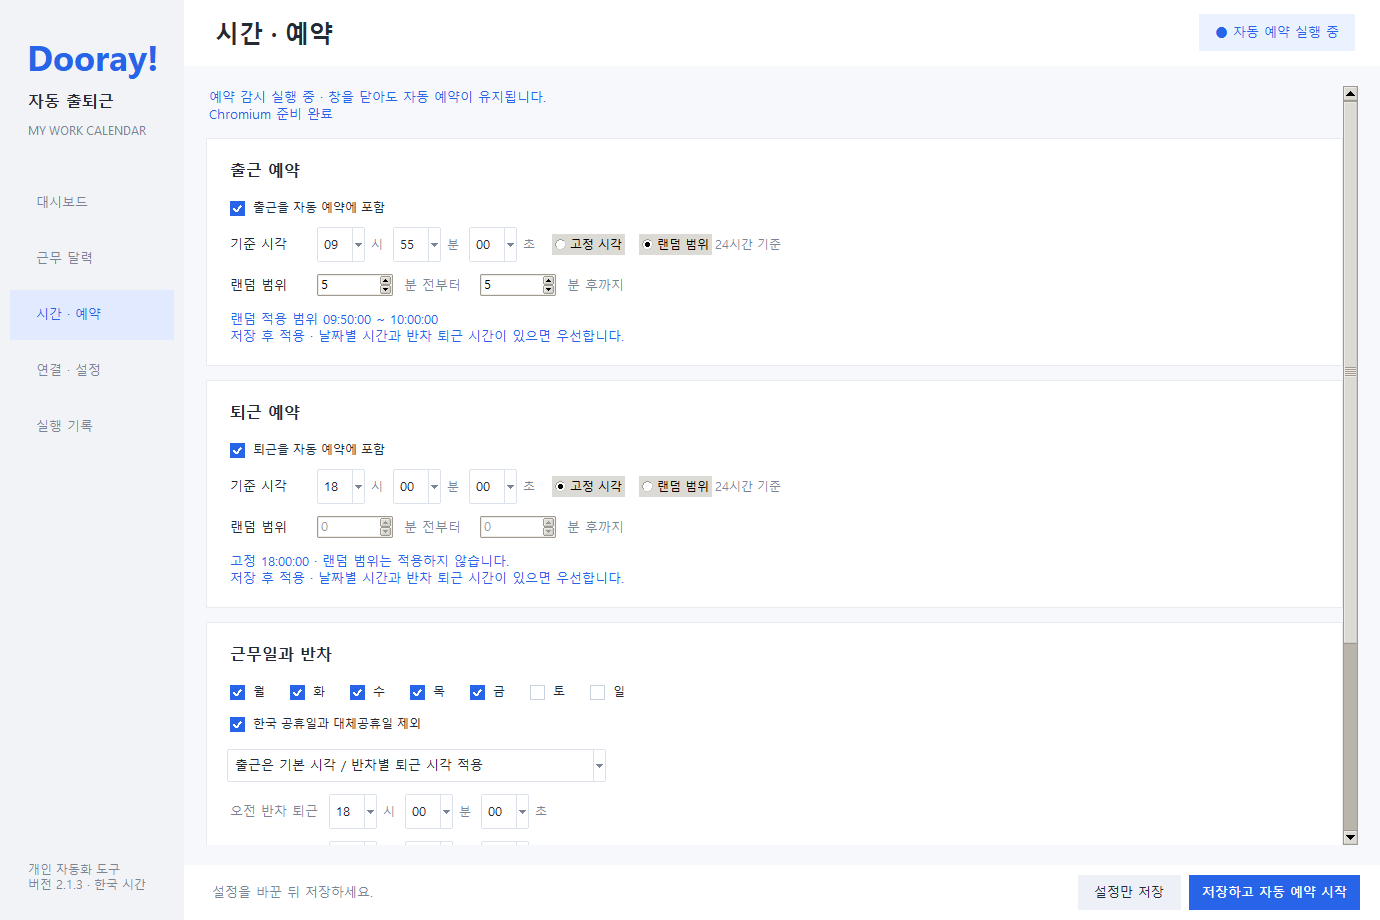
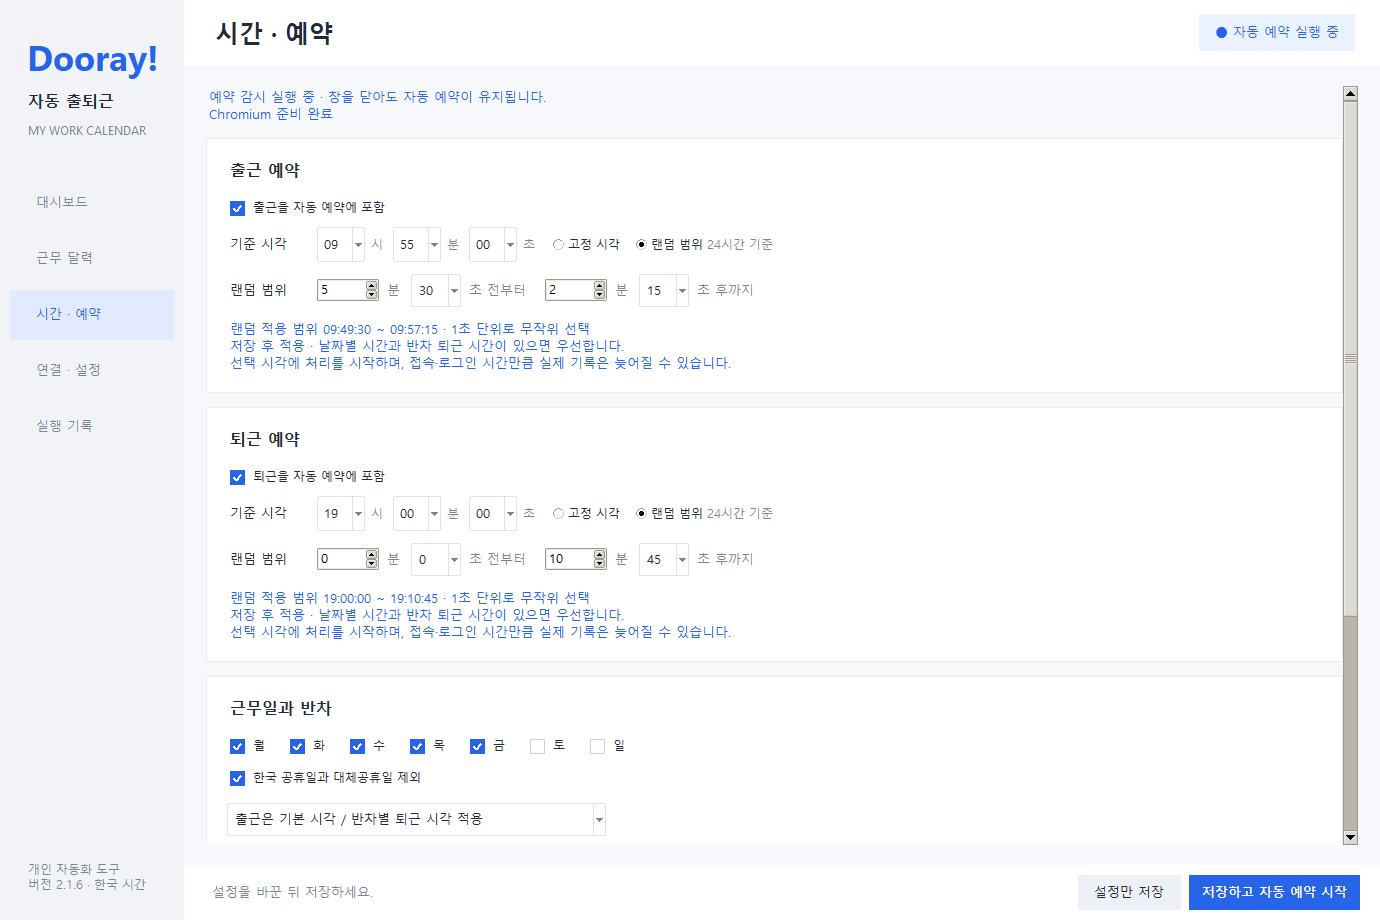
Allow second-level random windows for check-in and checkout

diff --git a/Duray/desktop_ui.py b/Duray/desktop_ui.py
@@ -354,15 +354,23 @@ class App:
             self.label(row, "랜덤 범위", width=12, anchor="w").pack(side="left")
             prefix = "" if action == "checkin" else "checkout_"
             self.random_inputs[action] = []
-            for key, label in (("random_before_minutes", "분 전부터"), ("random_after_minutes", "분 후까지")):
-                widget = ttk.Spinbox(row, from_=0, to=720, textvariable=self.vars[prefix + key], width=7)
+            range_keys = []
+            for direction, label in (("before", "초 전부터"), ("after", "초 후까지")):
+                minutes_key = prefix + "random_" + direction + "_minutes"
+                seconds_key = prefix + "random_" + direction + "_seconds"
+                range_keys.extend((minutes_key, seconds_key))
+                widget = ttk.Spinbox(row, from_=0, to=720, textvariable=self.vars[minutes_key], width=5)
                 widget.pack(side="left")
                 self.random_inputs[action].append(widget)
-                self.label(row, label, color=MUTED).pack(side="left", padx=(8, 16))
+                self.label(row, "분", color=MUTED).pack(side="left", padx=(5, 8))
+                widget = ttk.Combobox(row, values=list(range(60)), textvariable=self.vars[seconds_key], width=3, state="readonly")
+                widget.pack(side="left")
+                self.random_inputs[action].append(widget)
+                self.label(row, label, color=MUTED).pack(side="left", padx=(5, 16))
             preview = self.label(box, "", size=10, color=ACCENT, justify="left", wraplength=850)
             preview.pack(anchor="w", pady=(5, 0))
             self.schedule_previews[action] = preview
-            for key in (modekey, action + "_time", prefix + "random_before_minutes", prefix + "random_after_minutes"):
+            for key in (modekey, action + "_time", *range_keys):
                 self.vars[key].trace_add("write", lambda *_args, a=action: self.update_time_preview(a))
             self.update_time_preview(action)
         box = self.card(page, "근무일과 반차")
@@ -472,24 +480,28 @@ class App:
         mode = "time_mode" if action == "checkin" else "checkout_time_mode"
         random_mode = self.vars[mode].get() == MODE_LABELS["random"]
         for widget in self.random_inputs[action]:
-            widget.configure(state="normal" if random_mode else "disabled")
+            active_state = "readonly" if isinstance(widget, ttk.Combobox) else "normal"
+            widget.configure(state=active_state if random_mode else "disabled")
         try:
             cfg = copy.deepcopy(self.cfg)
             cfg[mode] = "random" if random_mode else "fixed"
             cfg[action + "_time"] = self.vars[action + "_time"].get()
             prefix = "" if action == "checkin" else "checkout_"
-            for key in (prefix + "random_before_minutes", prefix + "random_after_minutes"):
-                cfg[key] = int(self.vars[key].get())
-                if not 0 <= cfg[key] <= 720:
-                    raise ValueError()
+            for direction in ("before", "after"):
+                for unit, maximum in (("minutes", 720), ("seconds", 59)):
+                    key = prefix + "random_" + direction + "_" + unit
+                    cfg[key] = int(self.vars[key].get())
+                    if not 0 <= cfg[key] <= maximum:
+                        raise ValueError()
             # Show the normal-day range; date-specific times take priority.
             cfg["date_overrides"] = {}
             start, end = rules.time_bounds(cfg, self.today, action)
-            text = (f"랜덤 적용 범위 {rules.clock_text(start)} ~ {rules.clock_text(end)}" if random_mode
+            text = (f"랜덤 적용 범위 {rules.clock_text(start)} ~ {rules.clock_text(end)} · 1초 단위로 무작위 선택" if random_mode
                     else f"고정 {rules.clock_text(start)} · 랜덤 범위는 적용하지 않습니다.")
             text += "\n저장 후 적용 · 날짜별 시간과 반차 퇴근 시간이 있으면 우선합니다."
+            text += "\n선택 시각에 처리를 시작하며, 접속·로그인 시간만큼 실제 기록은 늦어질 수 있습니다."
         except (ValueError, TypeError):
-            text = "유효한 시각과 0~720분 범위를 입력하세요."
+            text = "유효한 시각과 0~720분, 0~59초 범위를 입력하세요."
         self.schedule_previews[action].configure(text=text)
 
     def update_app(self):
@@ -561,8 +573,12 @@ class App:
                 keyring.set_password(core.KEYRING_SERVICE, cfg["login_id"], password)
                 cfg["login_revision"] = uuid.uuid4().hex
             core.save_config(cfg)
-            core.log.info("설정 저장: 출근 %s / 모드 %s / 앞 %s분 뒤 %s분 / 퇴근 %s", cfg['checkin_time'],
-                          cfg['time_mode'], cfg['random_before_minutes'], cfg['random_after_minutes'], cfg['checkout_time'])
+            for action in rules.ACTIONS:
+                prefix = "" if action == "checkin" else "checkout_"
+                core.log.info("설정 저장: %s %s / 모드 %s / 앞 %s분 %s초 뒤 %s분 %s초", rules.LABELS[action],
+                              cfg[action + "_time"], cfg[prefix + "time_mode"],
+                              cfg[prefix + "random_before_minutes"], cfg[prefix + "random_before_seconds"],
+                              cfg[prefix + "random_after_minutes"], cfg[prefix + "random_after_seconds"])
             st = scheduler.status()
             if st.get("exists") and st.get("state") != "Disabled" and not st.get("watcher"):
                 scheduler.enable(cfg)

diff --git a/Duray/tests/test_attendance.py b/Duray/tests/test_attendance.py
@@ -56,6 +56,58 @@ class RulesTest(unittest.TestCase):
         self.cfg.update(checkout_time="23:59", checkout_time_mode="random", checkout_random_after_minutes=60)
         self.assertEqual(self.plan("checkout").end, 86399)
 
+    def test_seconds_ranges_for_both_actions(self):
+        for action in rules.ACTIONS:
+            prefix = "" if action == "checkin" else "checkout_"
+            with self.subTest(action=action):
+                self.cfg.update({action + "_time": "12:00:00", prefix + "time_mode": "random",
+                    prefix + "random_before_minutes": 5, prefix + "random_before_seconds": 30,
+                    prefix + "random_after_minutes": 2, prefix + "random_after_seconds": 15})
+                plan = self.plan(action)
+                self.assertEqual((plan.start, plan.end), (rules.seconds("11:54:30"), rules.seconds("12:02:15")))
+                self.assertLessEqual(plan.start, plan.target)
+                self.assertLessEqual(plan.target, plan.end)
+                self.assertEqual(plan.target, self.plan(action).target)
+                self.cfg[prefix + "time_mode"] = "fixed"
+                self.assertEqual(self.plan(action).target, rules.seconds("12:00:00"))
+
+    def test_subminute_random_range_is_not_rounded_to_minutes(self):
+        for action in rules.ACTIONS:
+            prefix = "" if action == "checkin" else "checkout_"
+            self.cfg.update({action + "_time": "12:00:30", prefix + "time_mode": "random",
+                prefix + "random_before_minutes": 0, prefix + "random_before_seconds": 20,
+                prefix + "random_after_minutes": 0, prefix + "random_after_seconds": 20})
+            targets = {self.plan(action, self.day + dt.timedelta(days=i)).target for i in range(120)}
+            self.assertTrue(all(rules.seconds("12:00:10") <= t <= rules.seconds("12:00:50") for t in targets))
+            self.assertGreater(len(targets), 20)
+
+    def test_old_settings_keep_same_selected_seconds_after_upgrade(self):
+        legacy = {k: v for k, v in self.cfg.items() if not ("random_" in k and k.endswith("_seconds"))}
+        legacy.update(time_mode="random", checkout_time_mode="random", checkout_random_after_minutes=10)
+        upgraded = rules.normalize_config(legacy)
+        for action in rules.ACTIONS:
+            for i in range(30):
+                day = self.day + dt.timedelta(days=i)
+                self.assertEqual(rules.plan_action(legacy, day, action), rules.plan_action(upgraded, day, action))
+        self.assertEqual(upgraded["random_before_seconds"], 0)
+        self.assertEqual(upgraded["checkout_random_after_seconds"], 0)
+
+    def test_seconds_validation_clipping_and_date_override(self):
+        for prefix in ("", "checkout_"):
+            for direction in ("before", "after"):
+                key = prefix + "random_" + direction + "_seconds"
+                for invalid in (-1, 60, "30", True, 1.5):
+                    with self.subTest(key=key, value=invalid), self.assertRaises(ValueError):
+                        rules.validate_config({**self.cfg, key: invalid})
+        self.cfg.update(checkin_time="00:00:15", time_mode="random", random_before_minutes=0,
+                        random_before_seconds=30, checkout_time="23:59:45", checkout_time_mode="random",
+                        checkout_random_after_seconds=30)
+        self.assertEqual(self.plan().start, 0)
+        self.assertEqual(self.plan("checkout").end, 86399)
+        self.cfg["date_overrides"][self.day.isoformat()] = {"checkout_time": "15:30:17"}
+        plan = self.plan("checkout")
+        self.assertEqual((plan.start, plan.end, plan.target), (rules.seconds("15:30:17"),) * 3)
+
     def test_saturday_manual_on(self):
         day = dt.date(2026, 10, 24)
         self.assertFalse(self.plan(day=day).enabled)
@@ -228,6 +280,20 @@ class RuntimeTest(unittest.TestCase):
         self.assertTrue(runtime.due(self.cfg, self.now, "checkin", {})[0])
         self.assertFalse(runtime.due(self.cfg, self.now - dt.timedelta(minutes=1), "checkin", {})[0])
         self.assertFalse(runtime.due(self.cfg, self.now + dt.timedelta(minutes=16), "checkin", {})[0])
+
+    def test_tick_starts_at_selected_second_for_both_actions(self):
+        self.cfg.update(checkout_enabled=True)
+        for action in rules.ACTIONS:
+            prefix = "" if action == "checkin" else "checkout_"
+            self.cfg.update({prefix + "time_mode": "random", prefix + "random_before_minutes": 0,
+                            prefix + "random_after_minutes": 0, prefix + "random_before_seconds": 12,
+                            prefix + "random_after_seconds": 17})
+            plan = rules.plan_action(self.cfg, self.now.date(), action)
+            target = self.now.replace(hour=0, minute=0, second=0) + dt.timedelta(seconds=plan.target)
+            with patch.object(runtime, "do_run", return_value=0) as run:
+                self.assertNotIn(action, runtime.tick(self.cfg, now=target - dt.timedelta(seconds=1)))
+                self.assertIn(action, runtime.tick(self.cfg, now=target))
+                self.assertEqual(run.call_args.args[1].action, action)
 
     def test_state_separate_for_checkout(self):
         self.cfg["checkout_enabled"] = True

diff --git a/Duray/attendance_rules.py b/Duray/attendance_rules.py
@@ -20,7 +20,9 @@ NEW_DEFAULTS = {
     "checkin_enabled": True, "checkout_enabled": False,
     "checkout_time": "18:00", "checkout_time_mode": "fixed",
     "random_before_minutes": 10, "random_after_minutes": 10,
+    "random_before_seconds": 0, "random_after_seconds": 0,
     "checkout_random_before_minutes": 0, "checkout_random_after_minutes": 0,
+    "checkout_random_before_seconds": 0, "checkout_random_after_seconds": 0,
     "workdays": [0, 1, 2, 3, 4], "date_overrides": {},
     "half_day_policy": "checkout_time", "am_half_checkout_time": "18:00",
     "pm_half_checkout_time": "14:00", "late_grace_minutes": 15,
@@ -87,6 +89,8 @@ def validate_config(cfg: dict, *, require_account: bool = False) -> None:
             raise ValueError("시간 모드는 fixed 또는 random이어야 합니다.")
     for key, low, high in (("random_before_minutes", 0, 720), ("random_after_minutes", 0, 720),
                           ("checkout_random_before_minutes", 0, 720), ("checkout_random_after_minutes", 0, 720),
+                          ("random_before_seconds", 0, 59), ("random_after_seconds", 0, 59),
+                          ("checkout_random_before_seconds", 0, 59), ("checkout_random_after_seconds", 0, 59),
                           ("late_grace_minutes", 0, 180), ("sync_interval_minutes", 5, 1440),
                           ("retry_count", 1, 10), ("retry_delay_seconds", 0, 600), ("timeout_ms", 1000, 120000)):
         if type(cfg.get(key)) is not int or not low <= cfg[key] <= high:
@@ -168,7 +172,9 @@ def time_bounds(cfg: dict, day: dt.date, action: str, kind: str = "work") -> tup
     prefix = "" if action == "checkin" else "checkout_"
     if special or mode == "fixed":
         return base, base
-    return max(0, base - cfg[prefix + "random_before_minutes"] * 60), min(86399, base + cfg[prefix + "random_after_minutes"] * 60)
+    before = cfg[prefix + "random_before_minutes"] * 60 + cfg.get(prefix + "random_before_seconds", 0)
+    after = cfg[prefix + "random_after_minutes"] * 60 + cfg.get(prefix + "random_after_seconds", 0)
+    return max(0, base - before), min(86399, base + after)
 
 
 @dataclass(frozen=True)
@@ -206,7 +212,8 @@ def plan_action(cfg: dict, day: dt.date, action: str, remote: dict | None = None
         if policy == "skip_checkout" and action == "checkout":
             enabled = False
     start, end = time_bounds(cfg, day, action, kind)
-    # Stable per user/date/action: restarting the worker never redraws today's time.
+    # Uniform over every second, inclusive. Stable per user/date/action: restarting
+    # the worker never redraws today's time. Zero seconds preserves legacy plans.
     seed = hashlib.sha256(f"{cfg.get('tenant_url')}|{cfg.get('login_id')}|{day}|{action}|{start}|{end}".encode()).digest()
     target = random.Random(seed).randint(start, end)
     return Plan(enabled, reason, start, end, target)

diff --git a/Duray/tests/test_gui.py b/Duray/tests/test_gui.py
@@ -167,7 +167,35 @@ class DesktopTest(unittest.TestCase):
         self.wait()
         self.assertEqual(core.load_config()['time_mode'], 'random')
         self.assertIn('09:50:00 ~ 10:00:00', self.app.schedule_previews['checkin'].cget('text'))
-        self.assertTrue(all(str(w.cget('state')) == 'normal' for w in self.app.random_inputs['checkin']))
+        self.assertTrue(all(str(w.cget('state')) in ('normal', 'readonly') for w in self.app.random_inputs['checkin']))
+
+    def test_seconds_range_preview_dropdown_and_saved_settings(self):
+        for action in rules.ACTIONS:
+            prefix = "" if action == "checkin" else "checkout_"
+            self.app.vars[action + '_time'].set('09:55' if action == 'checkin' else '19:00')
+            self.app.vars[prefix + 'time_mode'].set(desktop_ui.MODE_LABELS['random'])
+            for suffix, value in (('before_minutes', 5), ('before_seconds', 30),
+                                  ('after_minutes', 2), ('after_seconds', 15)):
+                self.app.vars[prefix + 'random_' + suffix].set(str(value))
+            preview = self.app.schedule_previews[action].cget('text')
+            self.assertIn('09:49:30 ~ 09:57:15' if action == 'checkin' else '18:54:30 ~ 19:02:15', preview)
+            self.assertIn('1초 단위', preview)
+            seconds_dropdown = self.app.random_inputs[action][1]
+            self.assertEqual(str(seconds_dropdown.cget('state')), 'readonly')
+            self.assertEqual(tuple(map(int, seconds_dropdown.cget('values'))), tuple(range(60)))
+        self.app.save()
+        self.wait()
+        saved = core.load_config()
+        for prefix in ('', 'checkout_'):
+            self.assertEqual(saved[prefix + 'random_before_seconds'], 30)
+            self.assertEqual(saved[prefix + 'random_after_seconds'], 15)
+        for action in rules.ACTIONS:
+            prefix = "" if action == "checkin" else "checkout_"
+            self.app.vars[prefix + 'random_after_seconds'].set('60')
+            self.assertIn('0~59초', self.app.schedule_previews[action].cget('text'))
+            with self.assertRaises(ValueError):
+                self.app.collect()
+            self.app.vars[prefix + 'random_after_seconds'].set('15')
 
     def test_save_and_start_registers_task_with_current_edits(self):
         self.app.vars['checkin_time'].set('09:55')

diff --git a/Duray/tests/test_diagnostics.py b/Duray/tests/test_diagnostics.py
@@ -36,6 +36,7 @@ class DiagnosticsTest(unittest.TestCase):
     def test_collects_evidence_without_credentials_sessions_or_notes(self):
         cfg = {'login_id': 'private.login', 'tenant_url': 'https://private-company.dooray.com',
                'password': 'fake-password-DO-NOT-SHARE', 'checkin_time': '09:55', 'checkin_enabled': True, 'workdays': [0,1,2,3,4],
+               'random_before_seconds': 30, 'checkout_random_after_seconds': 15,
                'date_overrides': {'2026-10-21': {'kind': 'work', 'checkin_time': '09:30', 'note': 'PRIVATE-NOTE'}}}
         config_path = self.data / 'config.json'
         config_path.write_text(json.dumps(cfg), encoding='utf-8')
@@ -61,6 +62,8 @@ class DiagnosticsTest(unittest.TestCase):
             self.assertNotIn(secret, everything)
         settings = json.loads(files['schedule-settings.json'])
         self.assertEqual(settings['checkin_time'], '09:55')
+        self.assertEqual(settings['random_before_seconds'], 30)
+        self.assertEqual(settings['checkout_random_after_seconds'], 15)
         self.assertEqual(settings['workdays'], [0,1,2,3,4])
         self.assertIs(settings['checkin_enabled'], True)
         self.assertIs(json.loads(files['environment.json'])['dataFound'], True)

diff --git a/Duray/app_version.py b/Duray/app_version.py
@@ -1,1 +1,1 @@
-VERSION = "2.1.5"
+VERSION = "2.1.6"

diff --git a/README.md b/README.md
@@ -1,8 +1,8 @@
 # 두레이 자동 출퇴근
 
-Windows에서 Dooray 출퇴근 예약, 근무 달력, 개인 근태를 관리하는 데스크톱 프로그램입니다. 현재 버전은 **2.1.5**입니다.
+Windows에서 Dooray 출퇴근 예약, 근무 달력, 개인 근태를 관리하는 데스크톱 프로그램입니다. 현재 버전은 **2.1.6**입니다.
 
-[Windows 설치 파일 다운로드](https://github.com/kimasill/dooray-auto-checkin/releases/download/v2.1.5/DoorayAutoCheckin-v2.1.5-windows.zip) · [설치 방법](#설치와-업데이트) · [연결 문제 해결](#연결이-안-될-때)
+[Windows 설치 파일 다운로드](https://github.com/kimasill/dooray-auto-checkin/releases/download/v2.1.6/DoorayAutoCheckin-v2.1.6-windows.zip) · [설치 방법](#설치와-업데이트) · [연결 문제 해결](#연결이-안-될-때)
 
 ## 화면 미리보기
 
@@ -16,7 +16,7 @@ Windows에서 Dooray 출퇴근 예약, 근무 달력, 개인 근태를 관리하
 
 ### 시간 · 예약
 
-시·분·초 드롭다운으로 시간을 선택하고, 랜덤 범위와 오전·오후 반차별 퇴근 시각을 지정합니다.
+시·분·초 드롭다운으로 시간을 선택하고, 랜덤 범위를 분·초로 정하고 오전·오후 반차별 퇴근 시각을 지정합니다.
 
 ![시간 및 예약: 시간 드롭다운, 랜덤 범위, 반차별 퇴근 시각 설정](docs/images/schedule.png)
 
@@ -24,9 +24,9 @@ Windows에서 Dooray 출퇴근 예약, 근무 달력, 개인 근태를 관리하
 
 **2.1.3부터 앱 안에서 업데이트할 수 있습니다.** 연결 · 설정 → **업데이트 확인** → **다운로드 및 설치**를 누르세요. 공식 GitHub 배포본의 SHA-256과 파일 구성을 검사한 뒤 설치하고 앱을 다시 엽니다. 기존 계정·비밀번호·시간·달력·예약 ON/OFF는 유지하며, 실패 시 기존 버전과 예약을 복원합니다. 이전 버전은 아래 ZIP으로 한 번 업데이트해주세요.
 
-**시간 설정만 저장하면 자동 예약은 시작되지 않습니다.** 하단의 **저장하고 자동 예약 시작**을 누르고 상단에 **자동 예약 실행 중**이 표시되는지 확인하세요. Windows 작업 등록과 실제 감시 프로세스 실행을 모두 확인합니다. 고정 시각에서는 랜덤 입력을 잠그며, 랜덤 범위를 선택하면 적용되는 시간 범위를 보여줍니다. 예: 09:55, 앞뒤 5분 → **09:50~10:00** 중 하루 한 시각을 선택하며 대시보드에 오늘의 선택 시각을 표시합니다.
+**시간 설정만 저장하면 자동 예약은 시작되지 않습니다.** 하단의 **저장하고 자동 예약 시작**을 누르고 상단에 **자동 예약 실행 중**이 표시되는지 확인하세요. Windows 작업 등록과 실제 감시 프로세스 실행을 모두 확인합니다. 고정 시각에서는 랜덤 입력을 잠그며, 랜덤 범위를 선택하면 적용되는 시간 범위를 보여줍니다. 예: 09:55, 앞뒤 5분 → **09:50:00~10:00:00**에서 1초 단위로 하루 한 시각을 선택하며 대시보드에 오늘의 선택 시각을 초까지 표시합니다. 2.1.6부터 범위도 **5분 30초 전 ~ 2분 15초 후**처럼 설정할 수 있습니다. 이 경우 09:55 기준 범위는 **09:49:30~09:57:15**입니다. 선택 시각에 처리를 시작하므로 접속·로그인·네트워크에 따라 실제 두레이 기록은 늦어질 수 있습니다.
 
-1. [최신 릴리스](https://github.com/kimasill/dooray-auto-checkin/releases/latest)에서 `DoorayAutoCheckin-v2.1.5-windows.zip`을 받습니다.
+1. [최신 릴리스](https://github.com/kimasill/dooray-auto-checkin/releases/latest)에서 `DoorayAutoCheckin-v2.1.6-windows.zip`을 받습니다.
 2. 압축을 풀고 `설치.bat`을 실행합니다.
 3. 프로그램의 **연결 · 설정**에서 회사 두레이 주소, 로그인 ID와 비밀번호를 입력하고 **저장하고 연결 확인**을 누릅니다.
 4. **시간 · 예약**에서 출근·퇴근 시각을 설정하고, 대시보드에서 **자동 예약 켜기**를 누릅니다.
@@ -62,7 +62,7 @@ Windows에서 Dooray 출퇴근 예약, 근무 달력, 개인 근태를 관리하
 - **근무 달력:** 월간 보기, 공휴일·대체휴일, 날짜별 출퇴근 ON/OFF 및 시간 설정
 - **본인 근태 표시:** 이번 달 연차·휴가, 오전 반차, 오후 반차를 색상별로 표시
 - **쉬운 시간 선택:** 출근·퇴근·반차·날짜별 시간을 시·분·초 드롭다운으로 선택
-- **출퇴근 예약:** 고정 시각 또는 기준 시각 이전/이후 각각 0~720분의 랜덤 범위
+- **출퇴근 예약:** 고정 시각 또는 기준 시각 이전/이후 각각 0~720분 + 0~59초의 랜덤 범위, 범위 안에서 1초 단위로 선택
 - **반차별 퇴근:** 출근 시각은 유지하고 오전·오후 반차의 퇴근 시각을 별도 지정
 - **설정 보존:** 이전 버전 설정 호환, 중복 처리 방지, 날짜별 수동 설정 우선 적용
 
@@ -82,7 +82,7 @@ Windows에서 Dooray 출퇴근 예약, 근무 달력, 개인 근태를 관리하
 
 ## 다른 PC에서 예약이 실행되지 않았을 때
 
-실패한 **그 PC에서, 앱을 사용한 Windows 계정으로** [진단 도구 ZIP](https://github.com/kimasill/dooray-auto-checkin/releases/download/v2.1.5/Dooray-diagnostics-tool.zip)을 내려받아 압축을 풀고 **진단로그수집.bat**을 실행하세요. 바탕화면에 생성되는 `Dooray-diagnostics-날짜-시간-식별자.zip`을 분석 담당자에게 전달하면 됩니다. 실패한 날짜와 기대한 예약 시각도 함께 알려주세요.
+실패한 **그 PC에서, 앱을 사용한 Windows 계정으로** [진단 도구 ZIP](https://github.com/kimasill/dooray-auto-checkin/releases/download/v2.1.6/Dooray-diagnostics-tool.zip)을 내려받아 압축을 풀고 **진단로그수집.bat**을 실행하세요. 바탕화면에 생성되는 `Dooray-diagnostics-날짜-시간-식별자.zip`을 분석 담당자에게 전달하면 됩니다. 실패한 날짜와 기대한 예약 시각도 함께 알려주세요.
 
 예약 설정, 최근 실행 로그, 결과 상태, 앱 버전, Windows 작업 상태와 절전·부팅 이벤트를 모읍니다. 비밀번호 저장소·로그인 세션·스크린샷·원본 설정 파일은 수집하지 않으며 계정 ID·회사 URL과 날짜별 메모를 제외합니다. 출퇴근 처리, 설정 변경, 자동 전송은 하지 않습니다. 일부 Windows 이벤트를 읽을 수 없어도 나머지 로그는 수집됩니다.
 

diff --git a/CHANGELOG.md b/CHANGELOG.md
@@ -1,5 +1,13 @@
 # 변경 기록
 
+## 2.1.6 — 2026-10-21
+
+- 출근·퇴근 랜덤 범위를 이전/이후 각각 분 + 초로 설정하고 초는 드롭다운에서 선택
+- 적용 범위와 하루의 무작위 선택 시각을 초 단위로 표시하고 실제 접속·로그인에 따른 처리 지연 안내
+- 기존 분 단위 범위도 1초 단위로 추첨한다는 점 명시; 추첨 방식과 재시작 시 시각 유지 동작 보존
+- 새 초 설정의 기본값은 0으로 기존 계정·시간·근태·예약 상태와 오늘 선택 시각 유지
+- 진단 도구에도 초 범위 포함; 110개 테스트와 별도 Windows 작업의 출근·퇴근 초 단위 예약 검증 (브라우저 요청은 로컬 모의 화면으로 대체)
+
 ## 2.1.5 — 2026-10-21
 
 - PowerShell 7에서 시작한 앱이 모듈 경로를 상속해 설치기의 Get-FileHash를 찾지 못하던 문제 수정
